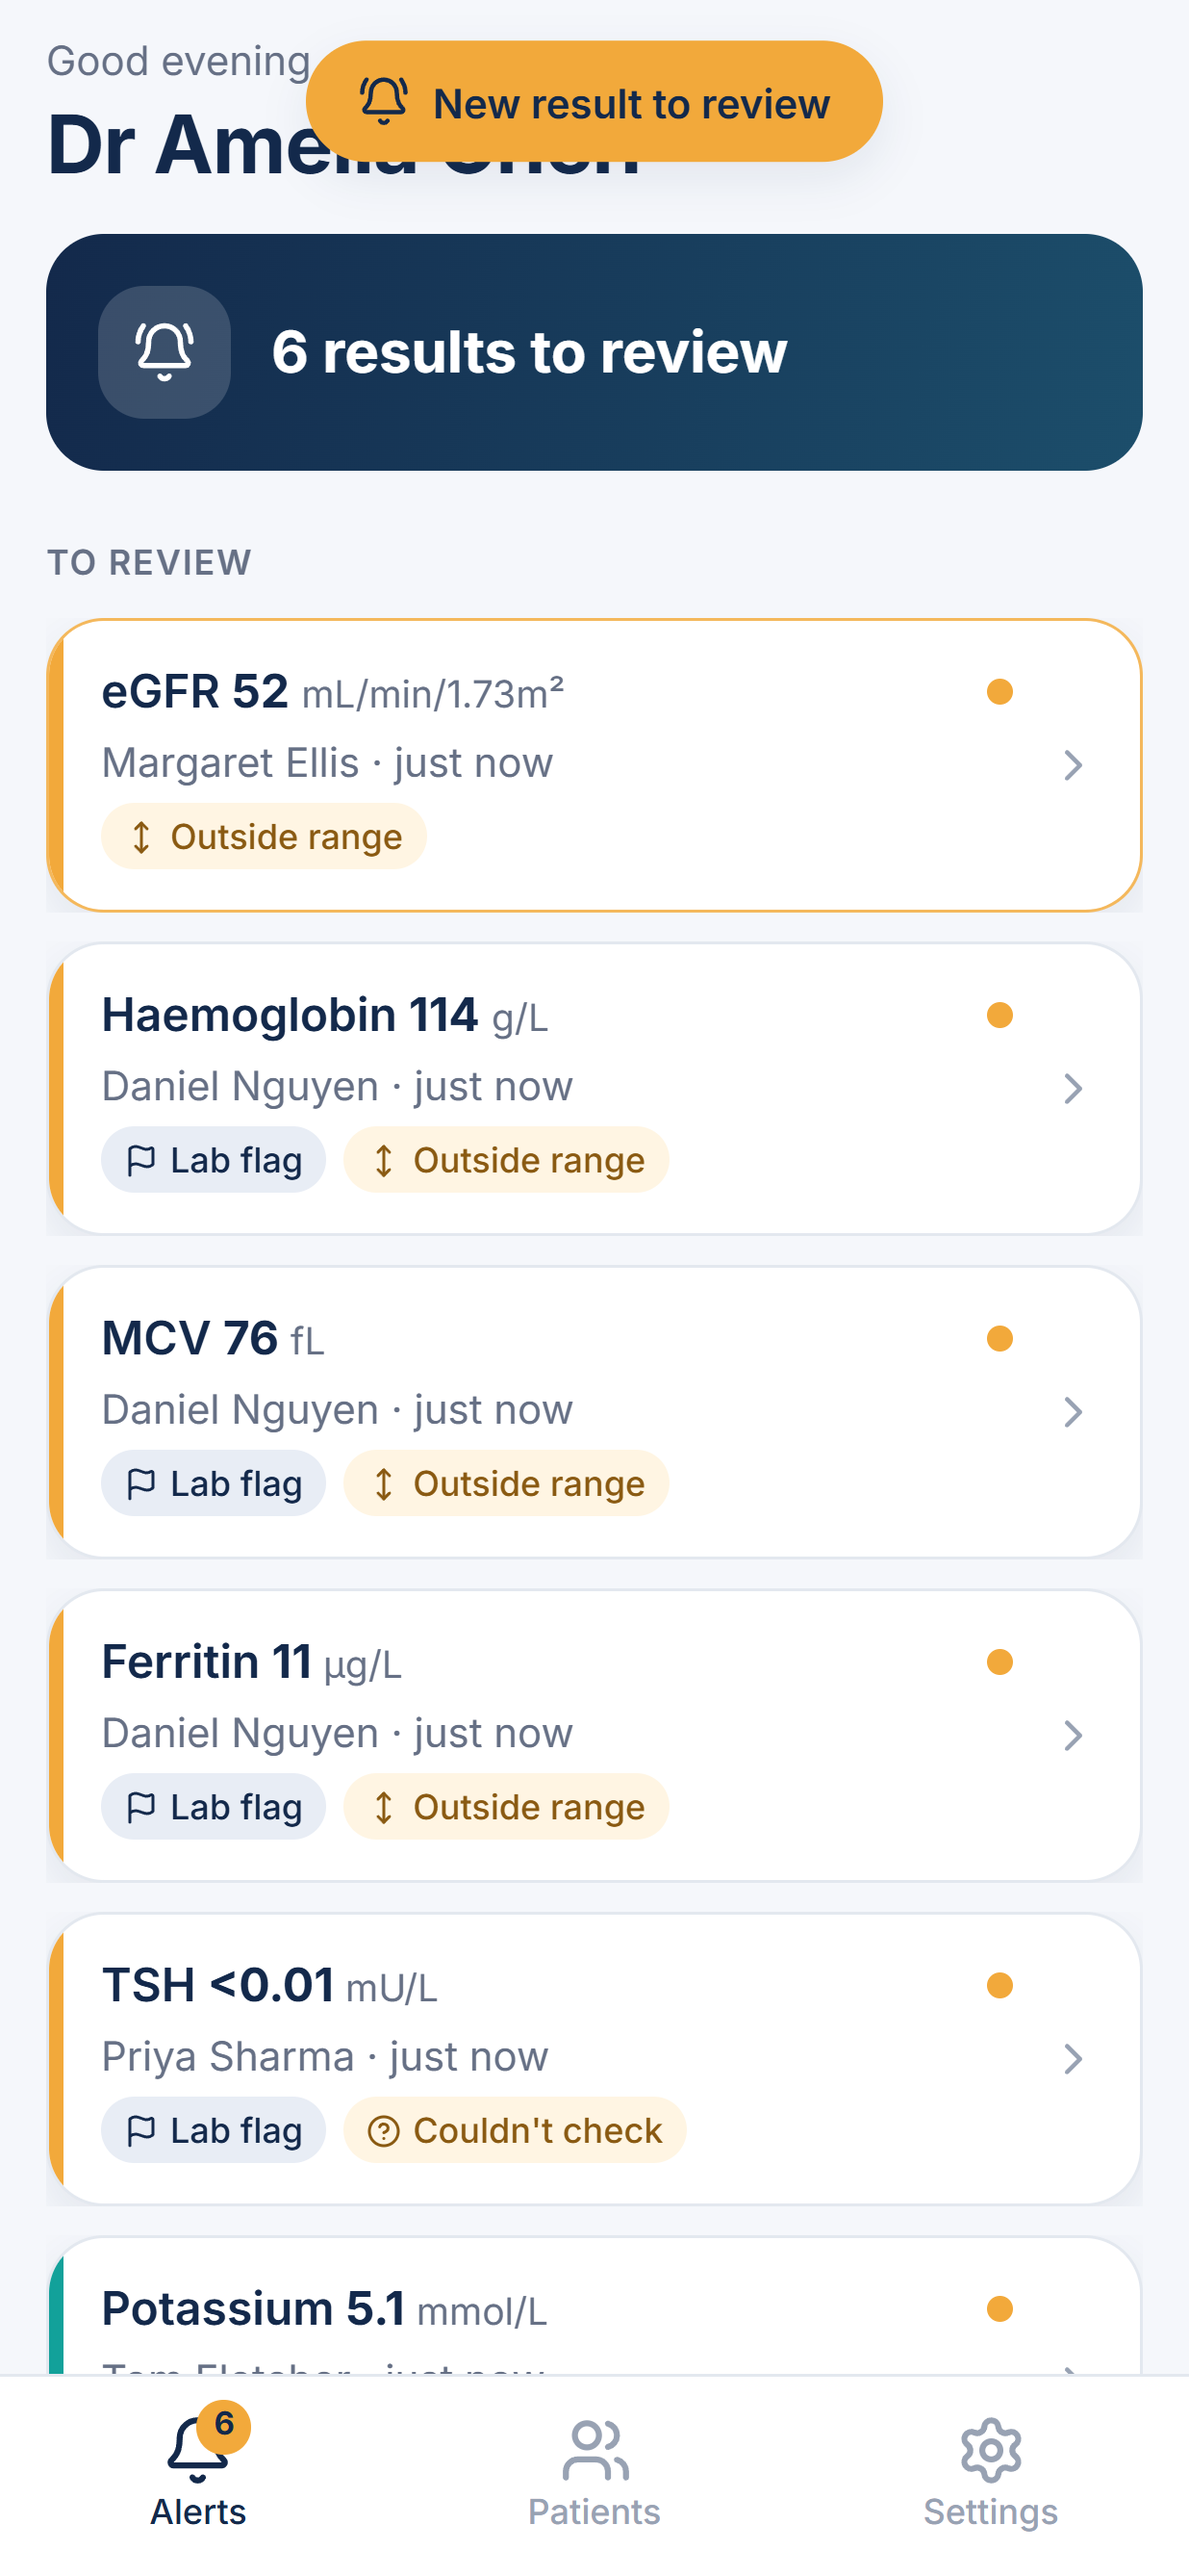
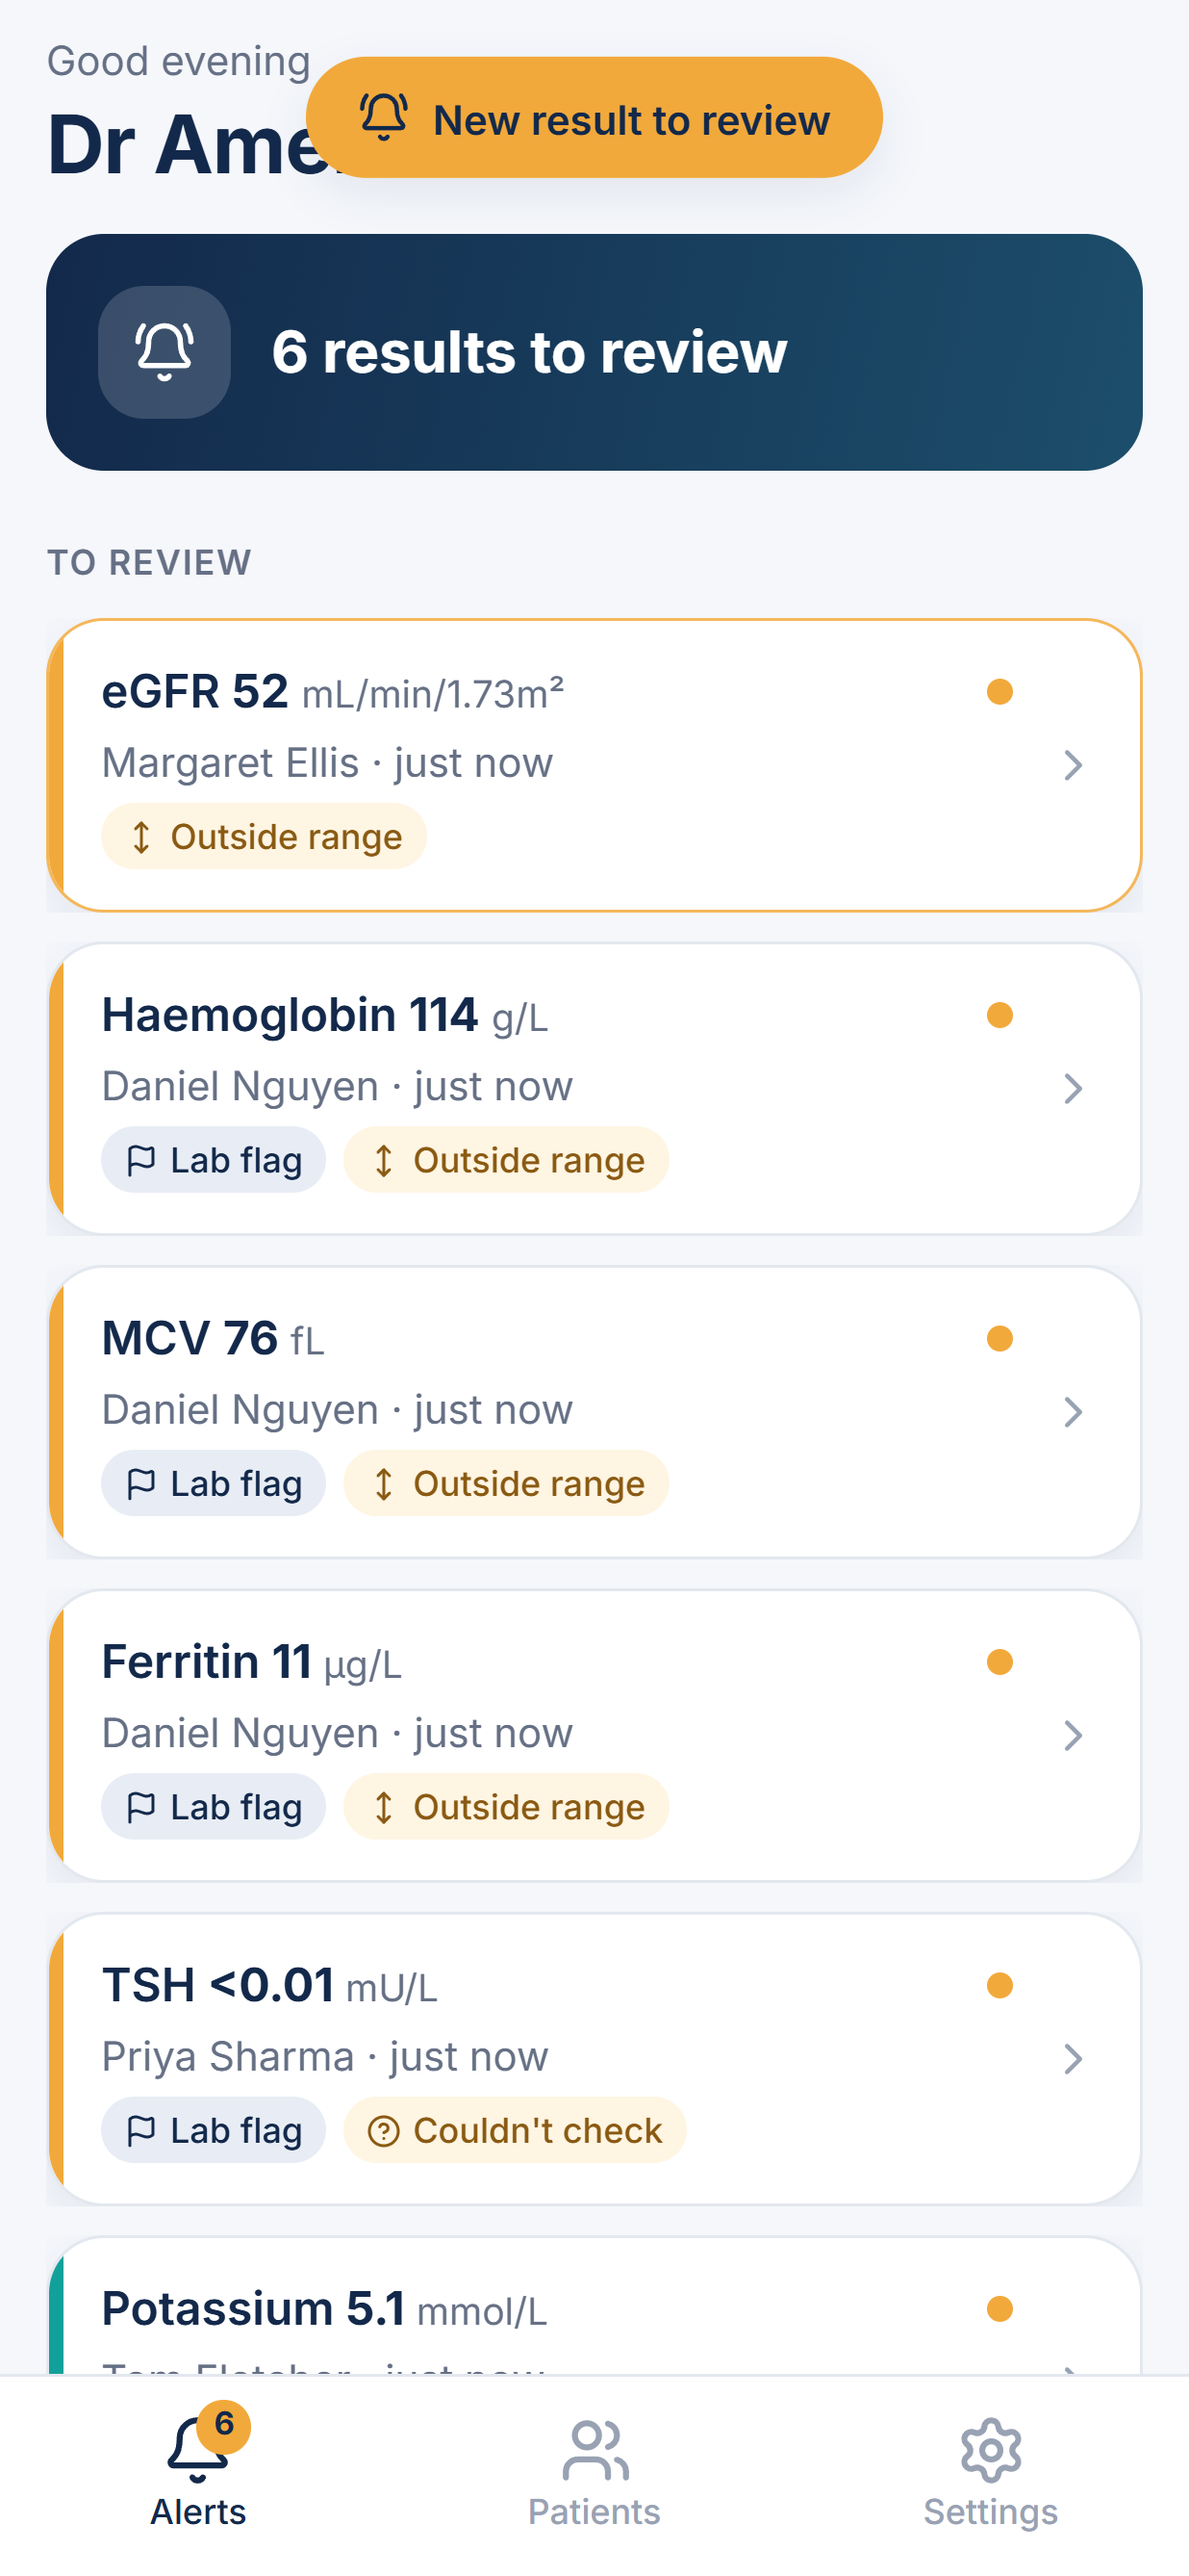
Remove safety lines from the GP app
Drop the "not an all-clear" line on an empty alerts list, the
safety-net note on the alert screen, and the empty-state sub-line.
Refresh the app screenshots.

Changed region(s): [[0.2767, 0.0, 0.7379, 0.093], [0.246, 0.031, 0.2767, 0.062]]

diff --git a/mobile/app/alert/[id].tsx b/mobile/app/alert/[id].tsx
@@ -3,7 +3,7 @@ import * as Haptics from "expo-haptics";
 import { LinearGradient } from "expo-linear-gradient";
 import { router, useLocalSearchParams } from "expo-router";
 import * as WebBrowser from "expo-web-browser";
-import { ArrowLeft, CheckCircle2, CircleHelp, FileText, Flag, Info, ListChecks, MoveVertical, UserX } from "lucide-react-native";
+import { ArrowLeft, CheckCircle2, CircleHelp, FileText, Flag, ListChecks, MoveVertical, UserX } from "lucide-react-native";
 import type { ReactNode } from "react";
 import { ActivityIndicator, Pressable, ScrollView, StyleSheet, View } from "react-native";
 import Animated, { FadeIn, FadeInDown, ZoomIn } from "react-native-reanimated";
@@ -180,13 +180,6 @@ export default function AlertScreen() {
           {a.report.fileUrl ? (
             <Button label="View original report" variant="secondary" icon={FileText} onPress={() => WebBrowser.openBrowserAsync(api.reportUrl(a.report.fileUrl!))} />
           ) : null}
-
-          <View style={styles.footnote}>
-            <Info size={14} color={colors.textFaint} />
-            <T size={12} color={colors.textFaint} style={{ flex: 1, lineHeight: 17 }}>
-              BloodLine is a safety net. It doesn&apos;t diagnose. Review this result and record decisions in your practice software as usual.
-            </T>
-          </View>
         </View>
       </ScrollView>
 
@@ -236,7 +229,6 @@ const styles = StyleSheet.create({
   whyIcon: { width: 34, height: 34, borderRadius: 11, alignItems: "center", justifyContent: "center" },
   comment: { backgroundColor: colors.tealSoft, borderRadius: radius.md, padding: 14, borderLeftWidth: 4, borderLeftColor: colors.teal },
   warn: { flexDirection: "row", gap: 10, alignItems: "center", backgroundColor: colors.amberSoft, borderRadius: radius.md, padding: 12 },
-  footnote: { flexDirection: "row", gap: 8, alignItems: "flex-start", paddingHorizontal: 4 },
   bottom: { position: "absolute", left: 0, right: 0, bottom: 0, paddingHorizontal: 16, paddingTop: 12, backgroundColor: "rgba(245,247,251,0.96)", borderTopWidth: StyleSheet.hairlineWidth, borderTopColor: colors.border },
   seen: { height: 52, borderRadius: radius.md, flexDirection: "row", gap: 8, alignItems: "center", justifyContent: "center", backgroundColor: colors.greenSoft },
 });

diff --git a/mobile/app/(tabs)/index.tsx b/mobile/app/(tabs)/index.tsx
@@ -175,11 +175,6 @@ export default function AlertsScreen() {
                   <T weight="bold" size={20} color={colors.white}>
                     {unseen ? `${unseen} result${unseen === 1 ? "" : "s"} to review` : "Nothing waiting"}
                   </T>
-                  {unseen ? null : (
-                    <T size={13} color="rgba(255,255,255,0.8)" style={{ marginTop: 2 }}>
-                      This is not an all-clear. Keep reviewing results as usual.
-                    </T>
-                  )}
                 </View>
               </LinearGradient>
             </Animated.View>
@@ -204,9 +199,6 @@ export default function AlertsScreen() {
               <ShieldCheck size={36} color={colors.teal} />
               <T weight="semibold" size={16}>
                 No alerts yet
-              </T>
-              <T size={13} color={colors.textMuted} style={{ textAlign: "center" }}>
-                When a result matches the lab&apos;s flag, its printed range or one of your rules, it appears here.
               </T>
             </View>
           )
